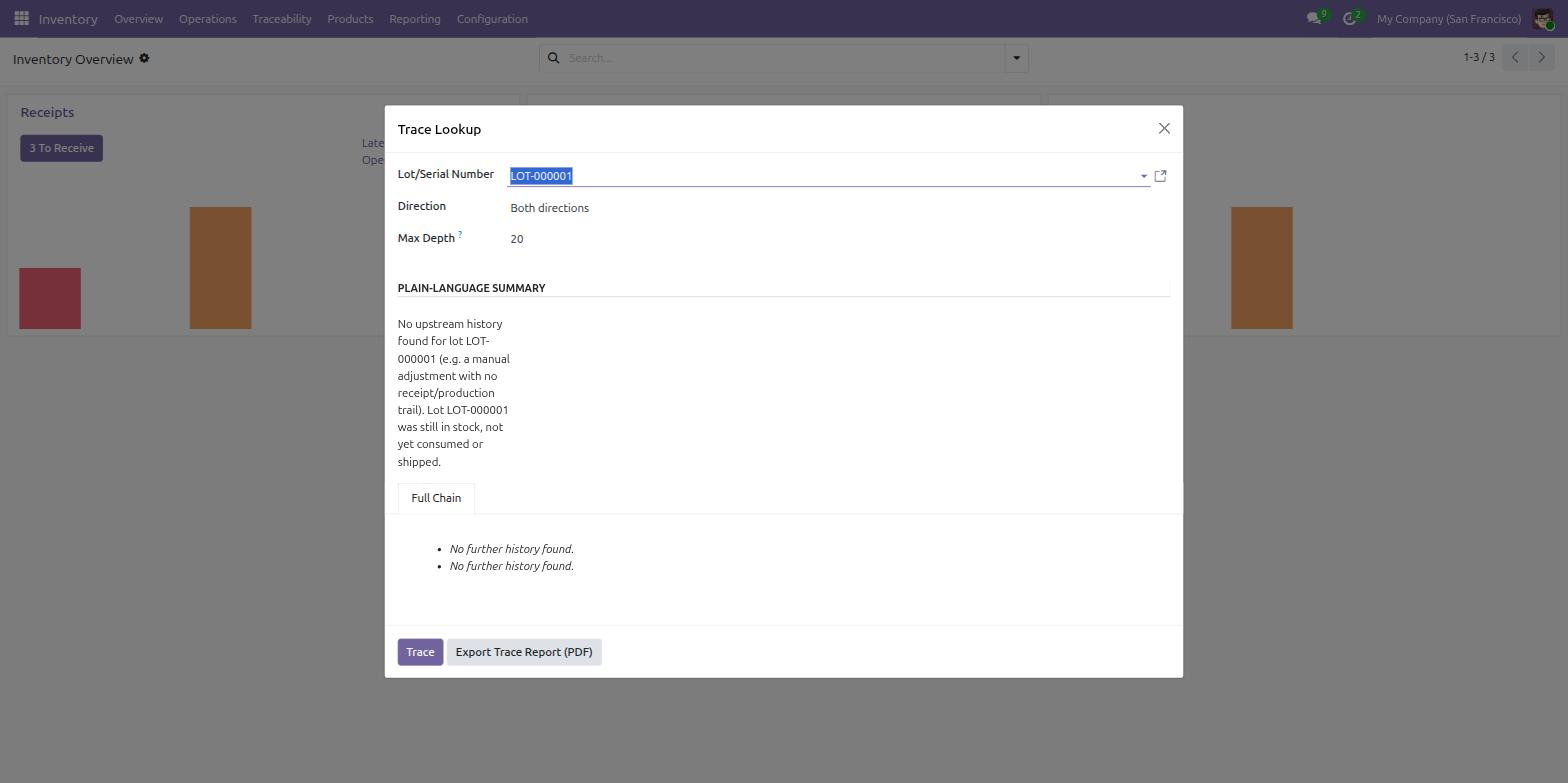
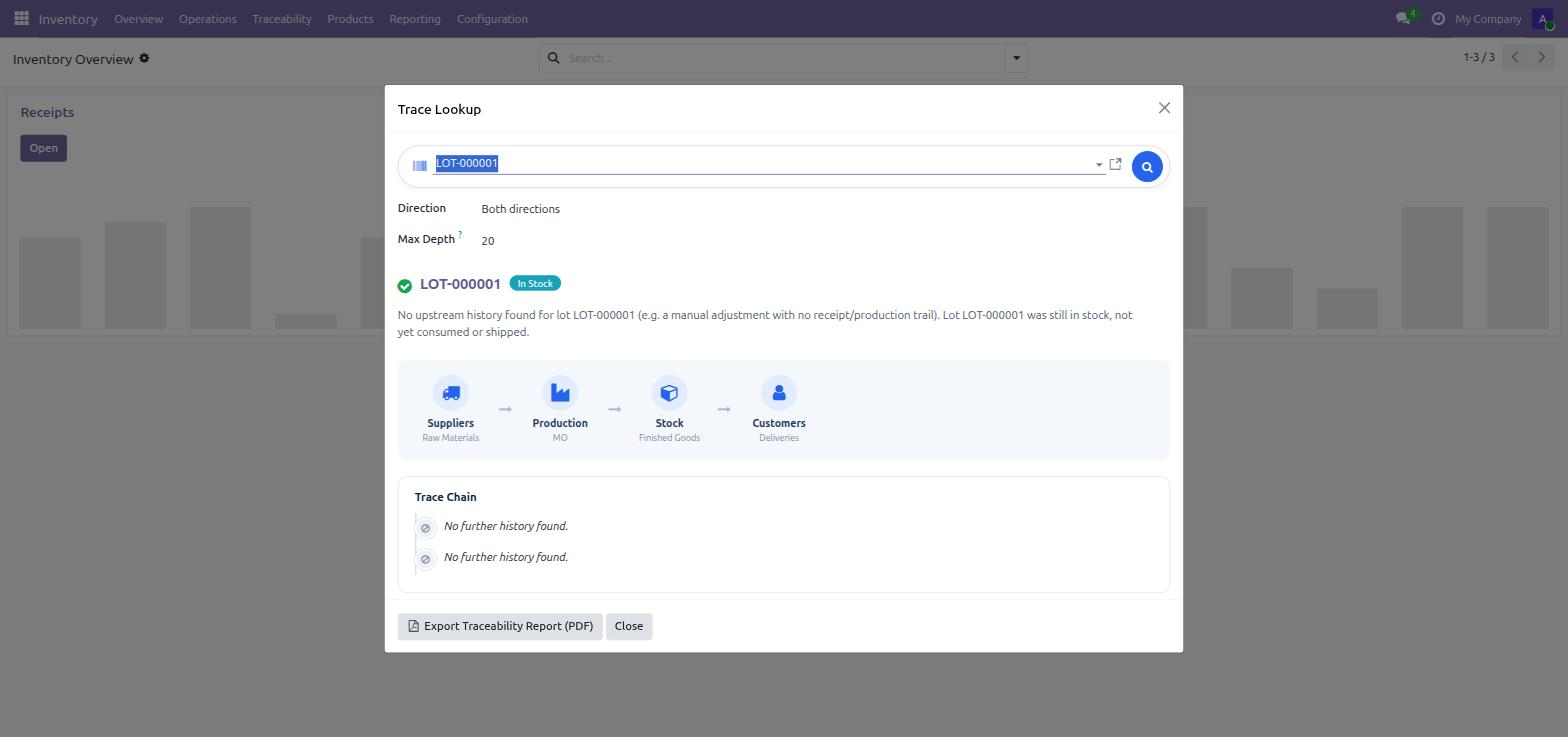
[IMP] bs_lot_traceability_lookup: redesigned trace lookup UI
Rebuild the wizard as a pill search bar, a status badge (Completed/In
Stock/Backward Trace Only) driven by the existing forward-trace data,
a Suppliers -> Production -> Stock -> Customers flow diagram, and a
color-coded icon timeline for the chain (replacing the plain nested
<ul>). Update the App Store search-entry/full-chain/no-history
screenshots to match.

Claude-Session: https://claude.ai/code/session_01KgDFiBJH8Rrs64ev6Krg1Z

diff --git a/bs_lot_traceability_lookup/static/src/css/bs_trace_lookup.css b/bs_lot_traceability_lookup/static/src/css/bs_trace_lookup.css
@@ -1,0 +1,188 @@
+/* Lot Traceability Lookup - search/result UI styling (scoped to .o_bs_trace_lookup) */
+
+.o_bs_trace_lookup .o_bs_trace_searchbar {
+    display: flex;
+    align-items: center;
+    gap: 8px;
+    background: #fff;
+    border: 1px solid #d8dde3;
+    border-radius: 999px;
+    padding: 6px 8px 6px 18px;
+    box-shadow: 0 2px 8px rgba(16, 42, 67, 0.06);
+}
+.o_bs_trace_lookup .o_bs_trace_search_icon {
+    color: #2563eb;
+    font-size: 16px;
+}
+.o_bs_trace_lookup .o_bs_trace_search_input {
+    flex: 1 1 auto;
+    border: none !important;
+    box-shadow: none !important;
+    background: transparent !important;
+}
+.o_bs_trace_lookup .o_bs_trace_search_btn {
+    border-radius: 999px;
+    width: 38px;
+    height: 38px;
+    padding: 0;
+    display: flex;
+    align-items: center;
+    justify-content: center;
+    background: #2563eb;
+    border-color: #2563eb;
+}
+.o_bs_trace_lookup .o_bs_trace_options {
+    margin-top: 14px;
+}
+
+.o_bs_trace_lookup .o_bs_trace_result {
+    margin-top: 20px;
+}
+.o_bs_trace_lookup .o_bs_trace_result_header {
+    display: flex;
+    align-items: center;
+    gap: 10px;
+}
+.o_bs_trace_lookup .o_bs_trace_check_icon {
+    color: #16a34a;
+    font-size: 20px;
+}
+.o_bs_trace_lookup .o_bs_trace_lot_name {
+    font-size: 18px;
+    font-weight: 600;
+    color: #0f2744;
+}
+.o_bs_trace_lookup .o_bs_trace_badge.badge {
+    font-weight: 500;
+    text-transform: none;
+}
+.o_bs_trace_lookup .o_bs_trace_summary {
+    color: #4b5768;
+    margin: 10px 0 18px;
+    max-width: 900px;
+}
+
+.o_bs_trace_lookup .o_bs_trace_flow {
+    display: flex;
+    align-items: center;
+    gap: 14px;
+    flex-wrap: wrap;
+    background: #f4f7fc;
+    border-radius: 12px;
+    padding: 18px 20px;
+    margin-bottom: 20px;
+}
+.o_bs_trace_lookup .o_bs_trace_flow_step {
+    display: flex;
+    flex-direction: column;
+    align-items: center;
+    min-width: 90px;
+    text-align: center;
+    color: #1e3a5f;
+}
+.o_bs_trace_lookup .o_bs_trace_flow_step > .fa {
+    font-size: 22px;
+    color: #2563eb;
+    background: #e3ecff;
+    border-radius: 50%;
+    width: 44px;
+    height: 44px;
+    line-height: 44px;
+    margin-bottom: 6px;
+}
+.o_bs_trace_lookup .o_bs_trace_flow_label {
+    font-weight: 600;
+    font-size: 13px;
+}
+.o_bs_trace_lookup .o_bs_trace_flow_sublabel {
+    font-size: 11px;
+    color: #7c8798;
+}
+.o_bs_trace_lookup .o_bs_trace_flow_arrow {
+    color: #a9b6c9;
+    font-size: 16px;
+}
+
+.o_bs_trace_lookup .o_bs_trace_chain_card {
+    border: 1px solid #e3e7ee;
+    border-radius: 12px;
+    padding: 16px 20px;
+}
+.o_bs_trace_lookup .o_bs_trace_chain_title {
+    font-weight: 600;
+    color: #0f2744;
+    margin-bottom: 12px;
+}
+
+.o_bs_trace_lookup ul.o_bs_trace_timeline {
+    list-style: none;
+    margin: 0;
+    padding-left: 0;
+    border-left: 2px solid #dbe3ee;
+}
+.o_bs_trace_lookup ul.o_bs_trace_timeline-nested {
+    margin-top: 8px;
+    margin-left: 14px;
+}
+.o_bs_trace_lookup li.o_bs_trace_node {
+    display: flex;
+    gap: 10px;
+    padding: 6px 0 6px 14px;
+    margin-left: -2px;
+}
+.o_bs_trace_lookup .o_bs_trace_dot {
+    flex: 0 0 auto;
+    width: 26px;
+    height: 26px;
+    border-radius: 50%;
+    display: flex;
+    align-items: center;
+    justify-content: center;
+    background: #e3ecff;
+    color: #2563eb;
+    font-size: 12px;
+    margin-left: -14px;
+    border: 2px solid #fff;
+    box-shadow: 0 0 0 1px #dbe3ee;
+}
+.o_bs_trace_lookup li.o_bs_trace_node-customer .o_bs_trace_dot {
+    background: #e3f9ec;
+    color: #16a34a;
+}
+.o_bs_trace_lookup li.o_bs_trace_node-vendor .o_bs_trace_dot {
+    background: #e3ecff;
+    color: #2563eb;
+}
+.o_bs_trace_lookup li.o_bs_trace_node-production .o_bs_trace_dot {
+    background: #fef3e0;
+    color: #c2760c;
+}
+.o_bs_trace_lookup li.o_bs_trace_node-muted .o_bs_trace_dot,
+.o_bs_trace_lookup li.o_bs_trace_node-not_tracked .o_bs_trace_dot {
+    background: #eef0f3;
+    color: #8a94a3;
+}
+.o_bs_trace_lookup li.o_bs_trace_node-circular .o_bs_trace_dot {
+    background: #fde8e8;
+    color: #dc2626;
+}
+.o_bs_trace_lookup .o_bs_trace_node_body {
+    flex: 1 1 auto;
+}
+.o_bs_trace_lookup .o_bs_trace_node_type {
+    display: block;
+    font-size: 11px;
+    font-weight: 600;
+    text-transform: uppercase;
+    letter-spacing: .03em;
+    color: #8a94a3;
+}
+.o_bs_trace_lookup .o_bs_trace_node_line {
+    color: #26364a;
+}
+
+.o_bs_trace_lookup .o_bs_trace_export_btn {
+    display: inline-flex;
+    align-items: center;
+    gap: 6px;
+}

diff --git a/bs_lot_traceability_lookup/models/traceability_engine.py b/bs_lot_traceability_lookup/models/traceability_engine.py
@@ -348,23 +348,42 @@ class TraceabilityEngine(models.AbstractModel):
 
     # ------------------------------------------------------------- html tree
 
+    # boundary -> (fa-icon, short type label shown above the lot line)
+    _NODE_META = {
+        'vendor': ('fa-truck', 'Raw Material'),
+        'production': ('fa-industry', 'Manufacturing Order'),
+        'customer': ('fa-user', 'Customer Delivery'),
+        'adjustment': ('fa-wrench', 'Inventory Adjustment'),
+        'scrap_or_adjustment': ('fa-recycle', 'Scrap / Adjustment'),
+        'not_tracked': ('fa-question-circle', 'Not Individually Tracked'),
+        'unknown': ('fa-circle-o', 'Movement'),
+    }
+
     def render_chain_html(self, nodes):
-        """Simple nested <ul> rendering - the 'straightforward QWeb-rendered
-        nested list' from the spec, built once in Python and reused for both
-        the wizard's on-screen preview and the PDF export."""
+        """Timeline-styled nested list - built once in Python and reused for
+        both the wizard's on-screen preview (CSS turns it into a vertical
+        timeline) and the PDF export (renders as a plain nested list)."""
         if not nodes:
             return Markup('<p class="text-muted">No data.</p>')
-        return Markup('<ul>%s</ul>') % Markup('').join(self._render_node_html(n) for n in nodes)
+        return Markup('<ul class="o_bs_trace_timeline">%s</ul>') % Markup('').join(
+            self._render_node_html(n) for n in nodes)
 
     def _render_node_html(self, node):
         boundary = node['boundary']
         if boundary == 'truncated':
             label = '... and %d more %s' % (node['more_count'], node.get('more_label') or 'items')
-            return Markup('<li><em>%s</em></li>') % escape(label)
+            return Markup('<li class="o_bs_trace_node o_bs_trace_node-muted">'
+                           '<span class="o_bs_trace_dot"><i class="fa fa-ellipsis-h"/></span>'
+                           '<div class="o_bs_trace_node_body"><em>%s</em></div></li>') % escape(label)
         if boundary == 'circular':
-            return Markup('<li>%s <em>(circular reference - already shown above)</em></li>') % escape(node['lot_name'] or '')
+            return Markup('<li class="o_bs_trace_node o_bs_trace_node-circular">'
+                           '<span class="o_bs_trace_dot"><i class="fa fa-refresh"/></span>'
+                           '<div class="o_bs_trace_node_body">%s <em>(circular reference - already shown above)</em></div></li>'
+                           ) % escape(node['lot_name'] or '')
         if boundary == 'no_history':
-            return Markup('<li><em>No further history found.</em></li>')
+            return Markup('<li class="o_bs_trace_node o_bs_trace_node-muted">'
+                           '<span class="o_bs_trace_dot"><i class="fa fa-ban"/></span>'
+                           '<div class="o_bs_trace_node_body"><em>No further history found.</em></div></li>')
 
         label_bits = []
         if node.get('lot_name'):
@@ -387,6 +406,13 @@ class TraceabilityEngine(models.AbstractModel):
         line = Markup(' ').join([Markup(b) for b in label_bits] + ([Markup('- %s' % detail)] if detail else []))
         children_html = ''
         if node.get('children'):
-            children_html = Markup('<ul>%s</ul>') % Markup('').join(
+            children_html = Markup('<ul class="o_bs_trace_timeline o_bs_trace_timeline-nested">%s</ul>') % Markup('').join(
                 self._render_node_html(c) for c in node['children'])
-        return Markup('<li>%s%s</li>') % (line, children_html)
+
+        icon, type_label = self._NODE_META.get(boundary, ('fa-circle-o', ''))
+        type_html = Markup('<span class="o_bs_trace_node_type">%s</span>') % escape(type_label) if type_label else ''
+        return Markup(
+            '<li class="o_bs_trace_node o_bs_trace_node-%s">'
+            '<span class="o_bs_trace_dot"><i class="fa %s"/></span>'
+            '<div class="o_bs_trace_node_body">%s<div class="o_bs_trace_node_line">%s</div>%s</div></li>'
+        ) % (boundary, icon, type_html, line, children_html)

diff --git a/bs_lot_traceability_lookup/wizards/bs_trace_lookup_wizard.py b/bs_lot_traceability_lookup/wizards/bs_trace_lookup_wizard.py
@@ -19,6 +19,18 @@ class BsTraceLookupWizard(models.TransientModel):
     summary_text = fields.Text(string='Plain-Language Summary', readonly=True)
     chain_html = fields.Html(string='Full Chain', readonly=True, sanitize=False)
     has_result = fields.Boolean(readonly=True)
+    status_class = fields.Selection([
+        ('success', 'Completed'),
+        ('info', 'In Stock'),
+        ('secondary', 'Backward Trace Only'),
+    ], readonly=True, string='Status')
+
+    def _compute_status_class(self, forward_nodes):
+        if forward_nodes is None:
+            return 'secondary'
+        if len(forward_nodes) == 1 and forward_nodes[0]['boundary'] == 'no_history':
+            return 'info'
+        return 'success'
 
     def action_search(self):
         self.ensure_one()
@@ -33,6 +45,7 @@ class BsTraceLookupWizard(models.TransientModel):
             'summary_text': summary,
             'chain_html': engine.render_chain_html(nodes),
             'has_result': True,
+            'status_class': self._compute_status_class(forward),
         })
         return {
             'type': 'ir.actions.act_window',

diff --git a/bs_lot_traceability_lookup/__manifest__.py b/bs_lot_traceability_lookup/__manifest__.py
@@ -28,6 +28,11 @@
         'views/bs_trace_export_log_views.xml',
         'views/bs_trace_menus.xml',
     ],
+    'assets': {
+        'web.assets_backend': [
+            'bs_lot_traceability_lookup/static/src/css/bs_trace_lookup.css',
+        ],
+    },
     'images': ['static/description/assets/main_screenshot.png'],
     'icon': '/bs_lot_traceability_lookup/static/description/icon.png',
     'installable': True,
